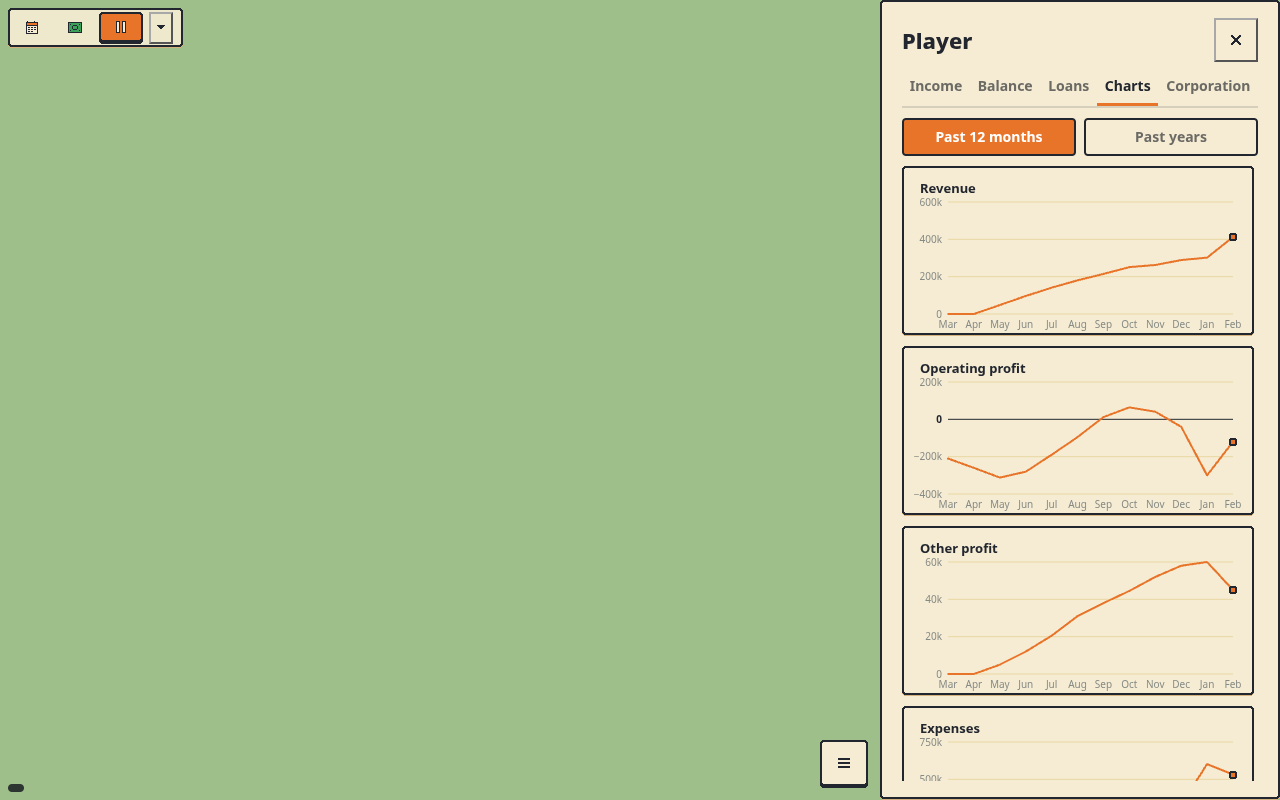
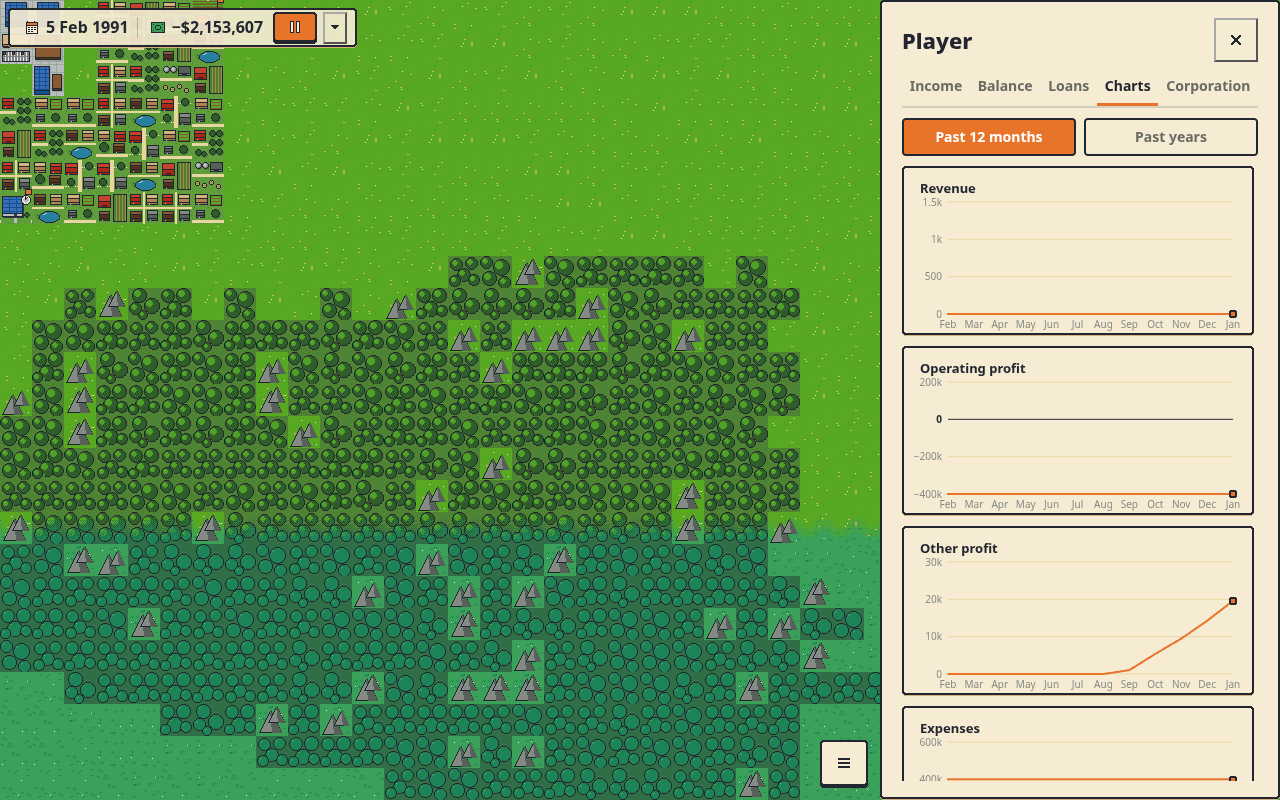
Charts: desktop shot over a live game; all-zero axis 0 to 1k (#258)

diff --git a/client/src/ui/chart.ts b/client/src/ui/chart.ts
@@ -46,14 +46,14 @@ export const crossesZero = (min: number, max: number) => min < 0 && max > 0;
 export const tipColour = (v: number) => (v >= 0 ? PALETTE.GREEN : PALETTE.RED);
 
 /** Axis range with exactly `lines` evenly spaced round ticks (1, 2, 2.5 or 5 times a power of ten)
- * covering every value. A flat series is widened to include 0. */
+ * covering every value. A flat series is widened to include 0; an all-zero one runs 0 to 1k. */
 export function axisRange(values: number[], lines = style.grid.lines): { min: number; max: number; ticks: number[] } {
   let lo = values.length ? Math.min(...values) : 0;
   let hi = values.length ? Math.max(...values) : 1;
   if (lo === hi) {
     lo = Math.min(0, lo);
     hi = Math.max(0, hi);
-    if (lo === hi) hi = 1;
+    if (lo === hi) hi = 1000; // all zero: a money axis of 0 to 1k, not 0.5 steps
   }
   const intervals = Math.max(1, lines - 1);
   const raw = (hi - lo) / intervals;

diff --git a/client/tests/companycharts.test.ts b/client/tests/companycharts.test.ts
@@ -79,3 +79,13 @@ describe("Company charts tab (#258)", () => {
     expect(spec.body.querySelector(".coming")).toBeNull();
   });
 });
+
+describe("all-zero series (#258)", () => {
+  it("gets a 0 to 1k money axis, not fractions", async () => {
+    const { axisRange } = await import("../src/ui/chart");
+    const r = axisRange([0, 0, 0]);
+    expect(r.min).toBe(0);
+    expect(r.ticks.every((t) => Number.isInteger(t))).toBe(true);
+    expect(r.max).toBeGreaterThanOrEqual(1000);
+  });
+});
